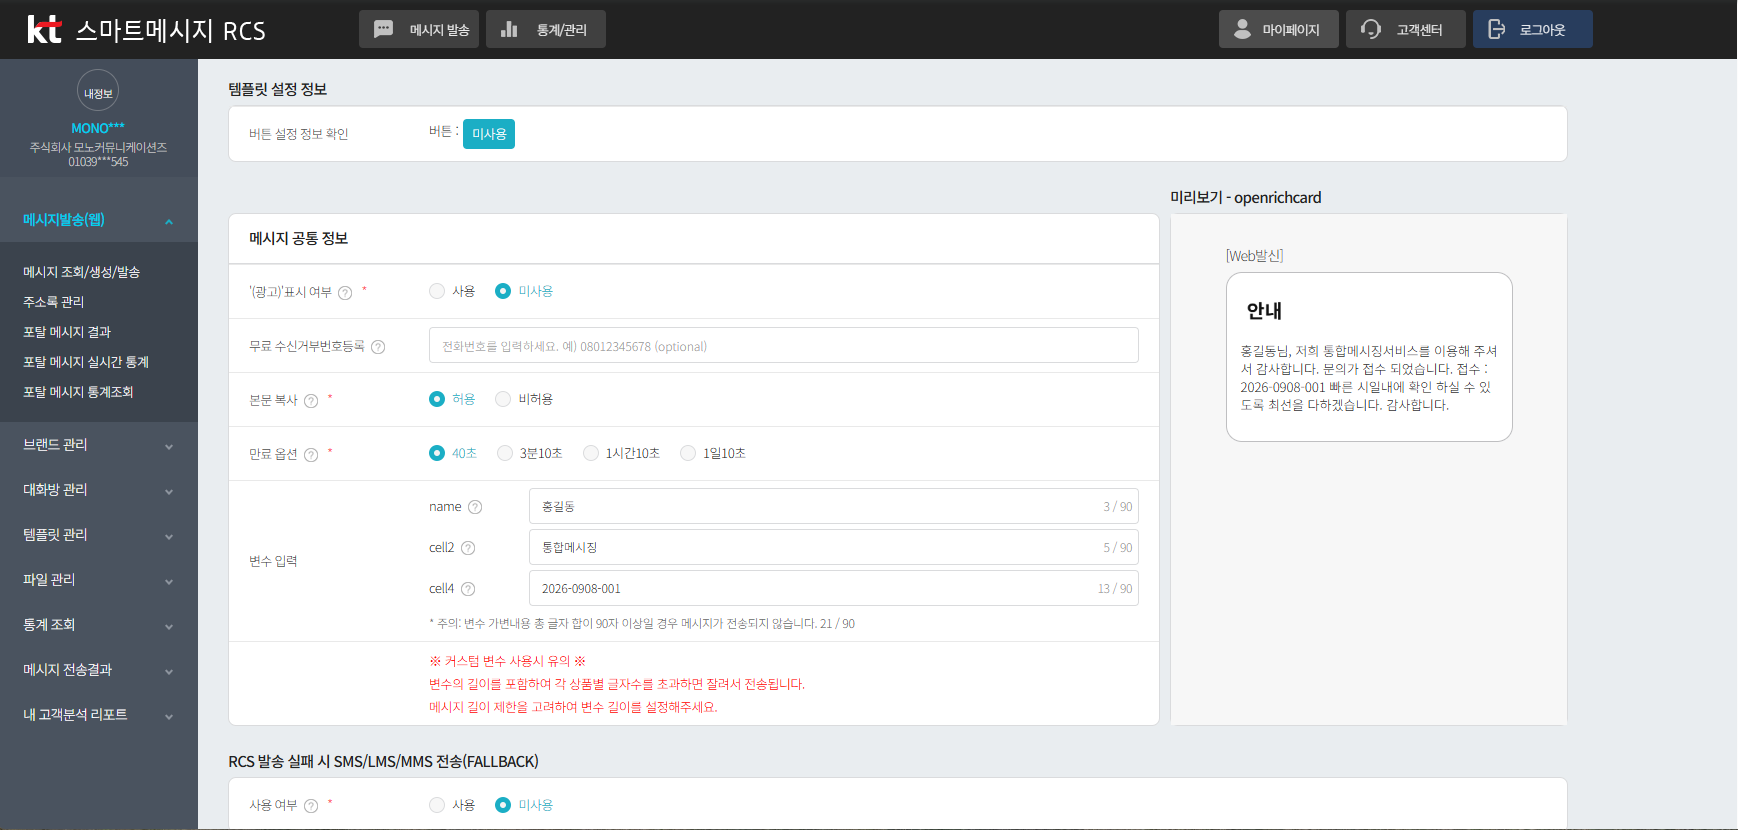
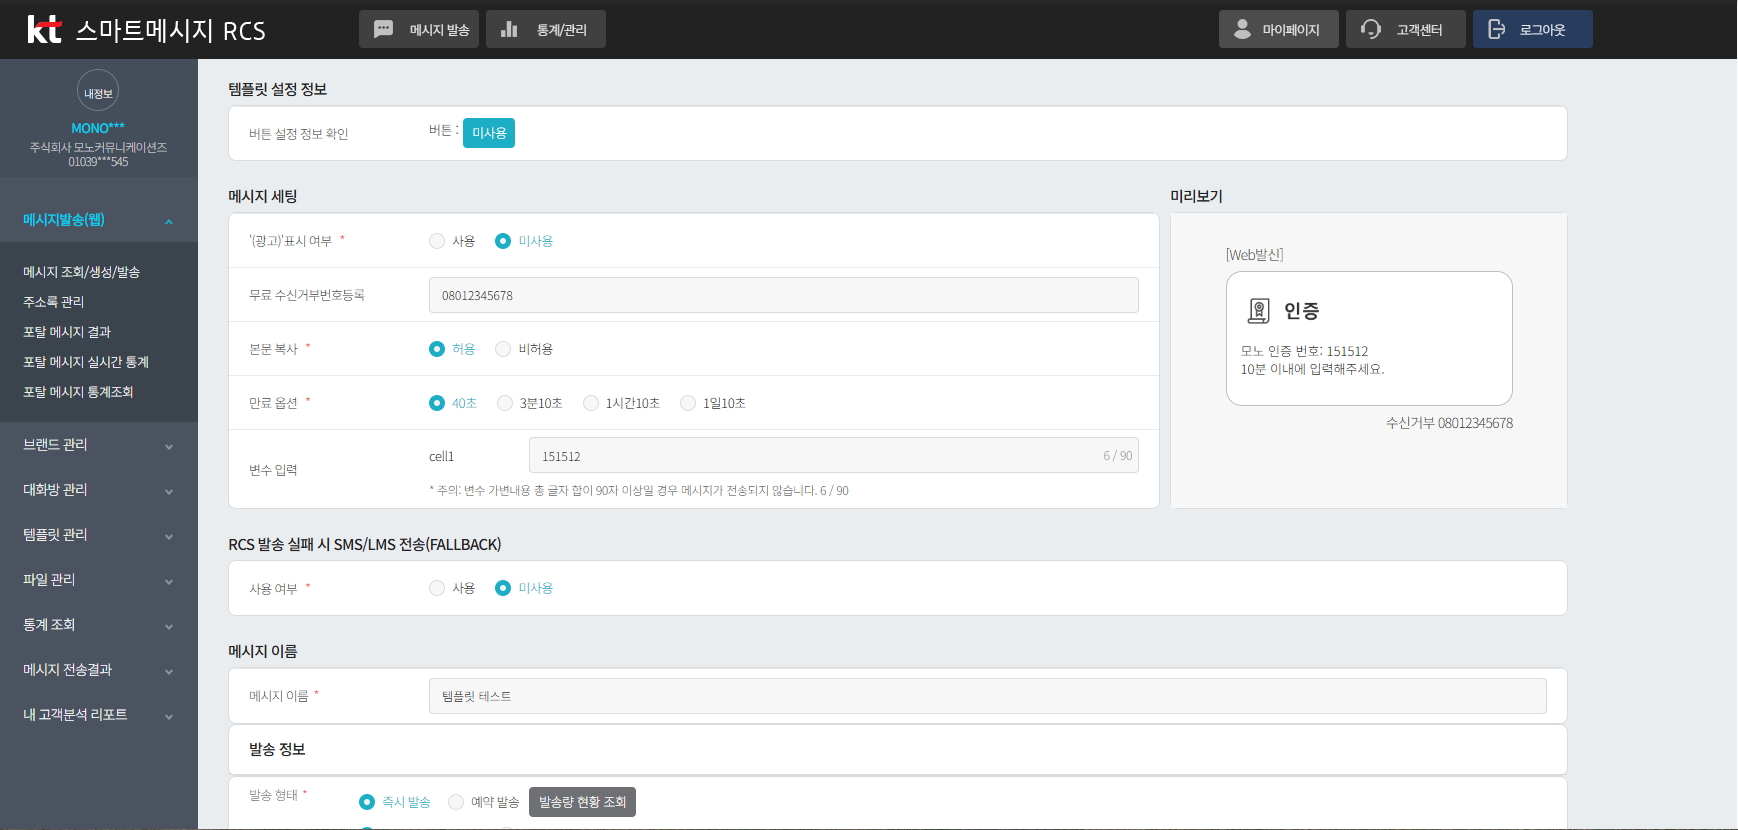
템플릿 '실제 화면' 캡쳐를 인증메시지로 교체
페이지 전체를 모노_인증메시지 예제로 바꿔 놓고 캡쳐만 이전 템플릿
(변수 3개짜리)이라 내용이 어긋났다. 캡션으로 설명해 뒀지만
보는 사람은 같은 화면으로 알기 때문에 다시 찍었다.

- tmpl-1-form  모노_인증메시지 · 변수 cell1(151512) · 미리보기 인증 카드
- 총합 카운터 설명을 6 / 90 기준으로 수정 (변수가 하나라 두 값이 같다는 점도)

diff --git a/content/hermes/rcs.js b/content/hermes/rcs.js
@@ -189,8 +189,8 @@
           {
             title: "실제 화면 — 템플릿 설정 정보 · 변수 입력",
             body: "값을 넣으면 우측 미리보기가 <b>치환된 결과</b>로 바뀝니다.",
-            shot: { img: "assets/hermes/tmpl-1-form.png", url: "rcs.hermes.kt.com/message", label: "템플릿 설정 정보 · 변수 입력 · 미리보기(openrichcard) — 화면은 변수 3개짜리 다른 템플릿 예시" },
-            note: "<b>버튼 설정 정보 확인</b>은 위 별도 영역, <b>변수 입력</b>은 <b>메시지 공통 정보</b> 안에 있습니다. 변수 아래의 <b>21 / 90</b> 이 총합 카운터입니다.",
+            shot: { img: "assets/hermes/tmpl-1-form.png", url: "rcs.hermes.kt.com/message", label: "템플릿 설정 정보 · 변수 입력 · 미리보기 — 모노_인증메시지" },
+            note: "<b>버튼 설정 정보 확인</b>은 위 별도 영역, <b>변수 입력</b>은 그 아래 영역 안에 있습니다. 변수 줄 오른쪽의 <b>6 / 90</b> 과 아래 <b>6 / 90</b> 중 아래쪽이 <b>총합</b> 카운터입니다. 이 템플릿은 변수가 <code>cell1</code> 하나뿐이라 두 값이 같습니다.",
           },
         ],
       },
